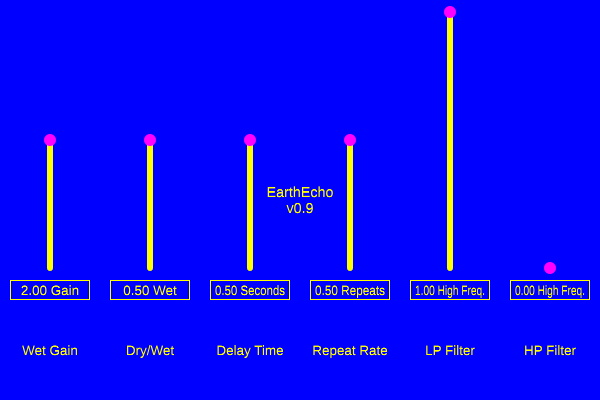
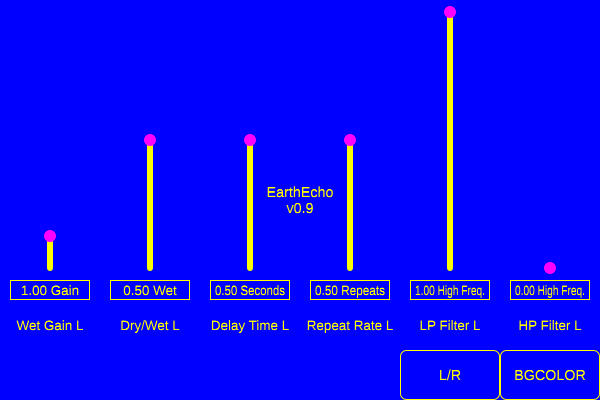
Changeable Background Color and Unique Parameters for L or R Channel
1. Modified README.md

2. Modified Source/PluginEditor.cpp and Source/PluginEditor.h
 a. Added Text Button to Change Background Color
 b. Added Text Button to Change Displaying Parameters for L or R Channel
 c. Made Text Boxes of Sliders Editable
 d. Preserved Syntax

3. Modified Source/PluginProcessor.cpp and Source/PluginProcessor.h
 a. Added Parameters for Each Channel

4. Updated resources/images/earthecho_gui.png

diff --git a/Source/PluginEditor.cpp b/Source/PluginEditor.cpp
@@ -27,21 +27,20 @@ extern _earthEchoSliderParameters earthEchoSliderParameters[];
 
 //==============================================================================
 EarthEchoAudioProcessorEditor::EarthEchoAudioProcessorEditor (EarthEchoAudioProcessor& p)
-    : AudioProcessorEditor (&p), audioProcessor (p), processorParameters (audioProcessor.getParameters()), arraySlider ((unsigned int) audioProcessor.getParameters().size()), arrayLabel ((unsigned int) audioProcessor.getParameters().size())
+    : AudioProcessorEditor (&p), audioProcessor (p), processorParameters (audioProcessor.getParameters()), numSingleChannelParameters ((unsigned int) (audioProcessor.getParameters().size() / audioProcessor.getTotalNumInputChannels())), arraySlider ((unsigned int) audioProcessor.getParameters().size()), arrayLabel ((unsigned int) audioProcessor.getParameters().size()), bgColour (juce::Colours::blue), stateBgColour (0), stateChannel (0)
 {
     // Set the size of this GUI before the end of this constructor.
     setSize (600, 400);
     //juce::Logger::getCurrentLogger()->writeToLog (String (arraySlider.size()));
     for (unsigned int i = 0; i < arraySlider.size(); i++)
     {
-        addAndMakeVisible (&arraySlider[i]);
         arraySlider[i].setSliderStyle (juce::Slider::LinearVertical);
         arraySlider[i].setTextBoxStyle (juce::Slider::TextBoxBelow, true, 80, 20);
         arraySlider[i].setTextValueSuffix (processorParameters[i]->getLabel());
         arraySlider[i].setRange (earthEchoSliderParameters[i].range.start, earthEchoSliderParameters[i].range.end * earthEchoSliderParameters[i].expander);
         arraySlider[i].setValue (processorParameters[i]->getValue() * earthEchoSliderParameters[i].expander);
-        arraySlider[i].setNumDecimalPlacesToDisplay(2);
-        arraySlider[i].addListener (this);
+        arraySlider[i].setNumDecimalPlacesToDisplay (2);
+        arraySlider[i].setTextBoxIsEditable (true);
         arraySlider[i].setColour (juce::Slider::backgroundColourId, juce::Colour (0x00000000));
         arraySlider[i].setColour (juce::Slider::thumbColourId, juce::Colours::magenta);
         arraySlider[i].setColour (juce::Slider::trackColourId, juce::Colours::yellow);
@@ -49,15 +48,33 @@ EarthEchoAudioProcessorEditor::EarthEchoAudioProcessorEditor (EarthEchoAudioProc
         arraySlider[i].setColour (juce::Slider::textBoxBackgroundColourId, juce::Colour (0x00000000));
         arraySlider[i].setColour (juce::Slider::textBoxHighlightColourId, juce::Colours::yellow);
         arraySlider[i].setColour (juce::Slider::textBoxOutlineColourId, juce::Colours::yellow);
+        arraySlider[i].addListener (this);
+        addChildComponent (&arraySlider[i]);
 
-        addAndMakeVisible (&arrayLabel[i]);
         arrayLabel[i].setJustificationType (juce::Justification::centred);
-        arrayLabel[i].setText (processorParameters[i]->getName(12), juce::dontSendNotification);
+        arrayLabel[i].setText (processorParameters[i]->getName (20), juce::dontSendNotification);
         arrayLabel[i].setColour (juce::Label::backgroundColourId, juce::Colour (0x00000000));
         arrayLabel[i].setColour (juce::Label::textColourId, juce::Colours::yellow);
         arrayLabel[i].setColour (juce::Label::outlineColourId, juce::Colour (0x00000000));
+        addChildComponent (&arrayLabel[i]);
     }
-    audioProcessor.addListener(this);
+    buttonChangeBgColour.setButtonText ("BGCOLOR");
+    buttonChangeBgColour.setColour (juce::TextButton::buttonColourId, juce::Colour (0x00000000));
+    buttonChangeBgColour.setColour (juce::TextButton::buttonOnColourId, juce::Colours::white);
+    buttonChangeBgColour.setColour (juce::TextButton::textColourOffId, juce::Colours::yellow);
+    buttonChangeBgColour.setColour (juce::TextButton::textColourOnId, juce::Colours::magenta);
+    buttonChangeBgColour.setColour (juce::ComboBox::outlineColourId, juce::Colours::yellow);
+    buttonChangeBgColour.addListener (this);
+    addAndMakeVisible (&buttonChangeBgColour);
+    buttonChangeChannel.setButtonText ("L/R");
+    buttonChangeChannel.setColour (juce::TextButton::buttonColourId, juce::Colour (0x00000000));
+    buttonChangeChannel.setColour (juce::TextButton::buttonOnColourId, juce::Colours::white);
+    buttonChangeChannel.setColour (juce::TextButton::textColourOffId, juce::Colours::yellow);
+    buttonChangeChannel.setColour (juce::TextButton::textColourOnId, juce::Colours::magenta);
+    buttonChangeChannel.setColour (juce::ComboBox::outlineColourId, juce::Colours::yellow);
+    buttonChangeChannel.addListener (this);
+    addAndMakeVisible (&buttonChangeChannel);
+    audioProcessor.addListener (this);
 }
 
 EarthEchoAudioProcessorEditor::~EarthEchoAudioProcessorEditor()
@@ -65,14 +82,14 @@ EarthEchoAudioProcessorEditor::~EarthEchoAudioProcessorEditor()
     // audioProcessor is the reference of EarthEchoAudioProcessor that is alive even after destructing this class.
     // If you don't remove a listener. The registration of the listener in EarthEchoAudioProcessor will be left.
     // Caution that the left listener causes a segmentation fault.
-    audioProcessor.removeListener(this);
+    audioProcessor.removeListener (this);
 }
 
 //==============================================================================
 void EarthEchoAudioProcessorEditor::paint (juce::Graphics& g)
 {
     // GUI Customizing
-    g.fillAll (juce::Colours::blue);
+    g.fillAll (bgColour);
 
     // Unique Settings on Background of GUI
     // Set Text Colour
@@ -90,14 +107,39 @@ void EarthEchoAudioProcessorEditor::resized()
     //juce::Logger::getCurrentLogger()->writeToLog (String (getLocalBounds().getHeight()));
     auto leftCornerX = (int) getLocalBounds().getX();
     auto leftCornerY = (int) getLocalBounds().getY();
-    auto sliderWidth = (int) ((float) getLocalBounds().getWidth() / (float) arraySlider.size());
-    auto sliderHeight = (int) (3.0f * ((float) getLocalBounds().getHeight() / 4.0f));
-    auto labelHeight =  (int) getLocalBounds().getHeight() - sliderHeight;
+    auto editorWidth = (int) getLocalBounds().getWidth();
+    auto editorHeight = (int) getLocalBounds().getHeight();
+    auto sliderWidth = (int) ((float) editorWidth / (float) numSingleChannelParameters);
+    auto sliderHeight = (int) (3.0f * ((float) editorHeight / 4.0f));
+    auto labelButtonHeight =  (int) ((float) (editorHeight - sliderHeight) / 2.0f);
     for (unsigned int i = 0; i < arraySlider.size(); i++)
     {
-        arraySlider[i].setBounds (leftCornerX + (sliderWidth * (int) i), leftCornerY, sliderWidth, sliderHeight);
-        arrayLabel[i].setBounds (leftCornerX + (sliderWidth * (int) i), leftCornerY + sliderHeight, sliderWidth, labelHeight);
+        arraySlider[i].setBounds (leftCornerX + (sliderWidth * (int) (i % numSingleChannelParameters)), leftCornerY, sliderWidth, sliderHeight);
+        arrayLabel[i].setBounds (leftCornerX + (sliderWidth * (int) (i % numSingleChannelParameters)), leftCornerY + sliderHeight, sliderWidth, labelButtonHeight);
+        if (i < numSingleChannelParameters)
+        {
+            arraySlider[i].setVisible (true);
+            arrayLabel[i].setVisible (true);
+        }
+        else
+        {
+            arraySlider[i].setVisible (false);
+            arrayLabel[i].setVisible (false);
+        }
     }
+    buttonChangeBgColour.setBounds (leftCornerX + (sliderWidth * (int) (numSingleChannelParameters - 1)), leftCornerY + sliderHeight + labelButtonHeight, sliderWidth, labelButtonHeight);
+    buttonChangeChannel.setBounds (leftCornerX + (sliderWidth * (int) (numSingleChannelParameters - 2)), leftCornerY + sliderHeight + labelButtonHeight, sliderWidth, labelButtonHeight);
+}
+
+void EarthEchoAudioProcessorEditor::audioProcessorParameterChanged (AudioProcessor *processorParameterChanged, int parameterIndex, float newValue)
+{
+    //juce::Logger::getCurrentLogger()->writeToLog (String ("EarthEchoAudioProcessorEditor::audioProcessorParameterChanged"));
+    arraySlider[(unsigned int) parameterIndex].setValue (newValue * earthEchoSliderParameters[(unsigned int) parameterIndex].expander);
+}
+
+void EarthEchoAudioProcessorEditor::audioProcessorChanged (AudioProcessor *processorChanged, const ChangeDetails &details)
+{
+    //juce::Logger::getCurrentLogger()->writeToLog (String ("EarthEchoAudioProcessorEditor::audioProcessorChanged"));
 }
 
 void EarthEchoAudioProcessorEditor::sliderValueChanged (juce::Slider* slider)
@@ -112,13 +154,49 @@ void EarthEchoAudioProcessorEditor::sliderValueChanged (juce::Slider* slider)
     }
 }
 
-void EarthEchoAudioProcessorEditor::audioProcessorParameterChanged (AudioProcessor *processorParameterChanged, int parameterIndex, float newValue)
+void EarthEchoAudioProcessorEditor::buttonClicked (juce::Button* button)
 {
-    //juce::Logger::getCurrentLogger()->writeToLog (String ("EarthEchoAudioProcessorEditor::audioProcessorParameterChanged"));
-    arraySlider[(unsigned int) parameterIndex].setValue (newValue * earthEchoSliderParameters[(unsigned int) parameterIndex].expander);
-}
-
-void EarthEchoAudioProcessorEditor::audioProcessorChanged (AudioProcessor *processorChanged, const ChangeDetails &details)
-{
-    //juce::Logger::getCurrentLogger()->writeToLog (String ("EarthEchoAudioProcessorEditor::audioProcessorChanged"));
+    if (button == &buttonChangeBgColour)
+    {
+        if (stateBgColour == 0)
+        {
+            bgColour = juce::Colours::black;
+            stateBgColour = 1;
+        }
+        else if (stateBgColour == 1)
+        {
+            bgColour = juce::Colours::coral;
+            stateBgColour = 2;
+        }
+        else if (stateBgColour == 2)
+        {
+            bgColour = juce::Colours::blue;
+            stateBgColour = 0;
+        }
+        repaint();
+    }
+    else if (button == &buttonChangeChannel)
+    {
+        if (stateChannel == 0)
+        {
+            stateChannel = 1;
+        }
+        else if (stateChannel == 1)
+        {
+            stateChannel = 0;
+        }
+        for (unsigned int i = 0; i < arraySlider.size(); i++)
+        {
+            if (i < numSingleChannelParameters)
+            {
+                arraySlider[i].setVisible ((bool) stateChannel ^ 1);
+                arrayLabel[i].setVisible ((bool) stateChannel ^ 1);
+            }
+            else
+            {
+                arraySlider[i].setVisible ((bool) stateChannel);
+                arrayLabel[i].setVisible ((bool) stateChannel);
+            }
+        }
+    }
 }

diff --git a/Source/PluginProcessor.cpp b/Source/PluginProcessor.cpp
@@ -25,12 +25,18 @@
 
 _earthEchoSliderParameters earthEchoSliderParameters[EARTHECHO_NUMBER_PARAMETERS] =
 {
-    {"wetgain", "Wet Gain", {0.0f, 1.0f, 0.00125f}, 0.125f, " Gain", 8.0f},
-    {"drywet", "Dry/Wet", {0.0f, 1.0f, 0.01f}, 0.5f, " Wet", 1.0f},
-    {"delay", "Delay Time", {0.0f, 1.0f, 0.01f}, 0.5f, " Seconds", 1.0f},
-    {"repeat", "Repeat Rate", {0.0f, 1.0f, 0.01f}, 0.5f, " Repeats", 1.0f},
-    {"lowpass", "LP Filter", {0.0f, 1.0f, 0.01f}, 1.0f, " High Freq.", 1.0f},
-    {"highpass", "HP Filter", {0.0f, 1.0f, 0.01f}, 0.0f, " High Freq.", 1.0f}
+    {"wetgain_l", "Wet Gain L", {0.0f, 1.0f, 0.00125f}, 0.125f, " Gain", 8.0f},
+    {"drywet_l", "Dry/Wet L", {0.0f, 1.0f, 0.01f}, 0.5f, " Wet", 1.0f},
+    {"delay_l", "Delay Time L", {0.0f, 1.0f, 0.01f}, 0.5f, " Seconds", 1.0f},
+    {"repeat_l", "Repeat Rate L", {0.0f, 1.0f, 0.01f}, 0.5f, " Repeats", 1.0f},
+    {"lowpass_l", "LP Filter L", {0.0f, 1.0f, 0.01f}, 1.0f, " High Freq.", 1.0f},
+    {"highpass_l", "HP Filter L", {0.0f, 1.0f, 0.01f}, 0.0f, " High Freq.", 1.0f},
+    {"wetgain_r", "Wet Gain R", {0.0f, 1.0f, 0.00125f}, 0.125f, " Gain", 8.0f},
+    {"drywet_r", "Dry/Wet R", {0.0f, 1.0f, 0.01f}, 0.5f, " Wet", 1.0f},
+    {"delay_r", "Delay Time R", {0.0f, 1.0f, 0.01f}, 0.5f, " Seconds", 1.0f},
+    {"repeat_r", "Repeat Rate R", {0.0f, 1.0f, 0.01f}, 0.5f, " Repeats", 1.0f},
+    {"lowpass_r", "LP Filter R", {0.0f, 1.0f, 0.01f}, 1.0f, " High Freq.", 1.0f},
+    {"highpass_r", "HP Filter R", {0.0f, 1.0f, 0.01f}, 0.0f, " High Freq.", 1.0f}
 };
 
 //==============================================================================
@@ -126,12 +132,15 @@ void EarthEchoAudioProcessor::prepareToPlay (double sampleRate, int samplesPerBl
     // Initialization before Playback
     //juce::Logger::getCurrentLogger()->writeToLog (String (sampleRate, 5));
     //juce::Logger::getCurrentLogger()->writeToLog (String ((int) sampleRate));
-    for (unsigned int i = 0; i < 4; i++)
-        arrayMovingAverage.push_back (0);
-    for (unsigned int i = 0; i < 2; i++)
-        arrayPlayBackSampleCount.push_back (0);
     playBackSampleRate = (unsigned int) sampleRate;
-    for (unsigned int i = 0; i < 2; i++)
+    // Moving Average for Low-pass Filter and High-pass Filter for Each Channel
+    for (unsigned int i = 0; i < (unsigned int) getTotalNumInputChannels() * 2; i++)
+        arrayMovingAverage.push_back (0);
+    // Set Zero to Counter of Samples for Each Channel
+    for (unsigned int i = 0; i < (unsigned int) getTotalNumInputChannels(); i++)
+        arrayPlayBackSampleCount.push_back (0);
+    // Make Memory Space to Store Delay Sound for Each Channel
+    for (unsigned int i = 0; i < (unsigned int) getTotalNumInputChannels(); i++)
     {
         std::vector<float> channel (playBackSampleRate, 0.0f);
         arrayDelay.push_back (channel);
@@ -181,7 +190,7 @@ void EarthEchoAudioProcessor::processBlock (juce::AudioBuffer<float>& buffer, ju
         {
             // Input
             auto currentData = inputData[j];
-            auto delayIndex = (unsigned int) ((float) (playBackSampleRate - 1) * arrayParameter[EarthEchoDelay]->get());
+            auto delayIndex = (unsigned int) ((float) (playBackSampleRate - 1) * arrayParameter[EARTHECHO_NUMBER_PARAMETERS_SINGLECHANNEL * i + EarthEchoDelay]->get());
             // Mix
             float mixData;
             if (delayIndex == 0)
@@ -190,19 +199,19 @@ void EarthEchoAudioProcessor::processBlock (juce::AudioBuffer<float>& buffer, ju
             }
             else
             {
-                mixData = ((arrayDelay[i][(((unsigned int) arrayPlayBackSampleCount[i] + playBackSampleRate) - delayIndex) % (playBackSampleRate)]) * arrayParameter[EarthEchoRepeat]->get()) + (currentData * (1.0f - arrayParameter[EarthEchoRepeat]->get()));
+                mixData = ((arrayDelay[i][(((unsigned int) arrayPlayBackSampleCount[i] + playBackSampleRate) - delayIndex) % (playBackSampleRate)]) * arrayParameter[EARTHECHO_NUMBER_PARAMETERS_SINGLECHANNEL * i + EarthEchoRepeat]->get()) + (currentData * (1.0f - arrayParameter[EARTHECHO_NUMBER_PARAMETERS_SINGLECHANNEL * i + EarthEchoRepeat]->get()));
             }
             arrayDelay[i][arrayPlayBackSampleCount[i]] = mixData;
-            // Lowpass Filter
-            arrayMovingAverage[i * 2] -= arrayMovingAverage[i * 2] * arrayParameter[EarthEchoLowpassFilter]->get();
-            arrayMovingAverage[i * 2] += mixData * arrayParameter[EarthEchoLowpassFilter]->get();
+            // Low-pass Filter
+            arrayMovingAverage[i * 2] -= arrayMovingAverage[i * 2] * arrayParameter[EARTHECHO_NUMBER_PARAMETERS_SINGLECHANNEL * i + EarthEchoLowpassFilter]->get();
+            arrayMovingAverage[i * 2] += mixData * arrayParameter[EARTHECHO_NUMBER_PARAMETERS_SINGLECHANNEL * i + EarthEchoLowpassFilter]->get();
             mixData = arrayMovingAverage[i * 2];
-            // Highpass Filter
-            arrayMovingAverage[i * 2 + 1] -= arrayMovingAverage[i * 2 + 1] * arrayParameter[EarthEchoHighpassFilter]->get();
-            arrayMovingAverage[i * 2 + 1] += mixData * arrayParameter[EarthEchoHighpassFilter]->get();
+            // High-pass Filter
+            arrayMovingAverage[i * 2 + 1] -= arrayMovingAverage[i * 2 + 1] * arrayParameter[EARTHECHO_NUMBER_PARAMETERS_SINGLECHANNEL * i + EarthEchoHighpassFilter]->get();
+            arrayMovingAverage[i * 2 + 1] += mixData * arrayParameter[EARTHECHO_NUMBER_PARAMETERS_SINGLECHANNEL * i + EarthEchoHighpassFilter]->get();
             mixData = mixData - arrayMovingAverage[i * 2 + 1];
             // Output
-            outputData[j] = ((mixData * arrayParameter[EarthEchoDryWet]->get() * arrayParameter[EarthEchoVolume]->get() * earthEchoSliderParameters[EarthEchoVolume].expander) + (currentData * (1.0f - arrayParameter[EarthEchoDryWet]->get())));
+            outputData[j] = ((mixData * arrayParameter[EARTHECHO_NUMBER_PARAMETERS_SINGLECHANNEL * i + EarthEchoDryWet]->get() * arrayParameter[EARTHECHO_NUMBER_PARAMETERS_SINGLECHANNEL * i + EarthEchoVolume]->get() * earthEchoSliderParameters[EarthEchoVolume].expander) + (currentData * (1.0f - arrayParameter[EARTHECHO_NUMBER_PARAMETERS_SINGLECHANNEL * i + EarthEchoDryWet]->get())));
             if (++arrayPlayBackSampleCount[i] >= playBackSampleRate)
             {
                 arrayPlayBackSampleCount[i] = 0;

diff --git a/Source/PluginEditor.h b/Source/PluginEditor.h
@@ -29,8 +29,9 @@
 /**
 */
 class EarthEchoAudioProcessorEditor  : public juce::AudioProcessorEditor,
+                                       public juce::AudioProcessorListener,
                                        public juce::Slider::Listener,
-                                       public juce::AudioProcessorListener
+                                       public juce::Button::Listener
 {
 public:
     EarthEchoAudioProcessorEditor (EarthEchoAudioProcessor&);
@@ -39,10 +40,11 @@ public:
     //==============================================================================
     void paint (juce::Graphics&) override;
     void resized() override;
-    void sliderValueChanged (juce::Slider* slider) override;
     // Needed Define All Pure Virtual Functions (Decleared with "=0")
     void audioProcessorParameterChanged (AudioProcessor *processor, int parameterIndex, float newValue) override;
     void audioProcessorChanged (AudioProcessor *processor, const ChangeDetails &details) override;
+    void sliderValueChanged (juce::Slider* slider) override;
+    void buttonClicked (juce::Button* button) override;
 
 private:
     // This reference is provided as a quick way for your editor to
@@ -51,8 +53,14 @@ private:
 
     //==============================================================================
     juce::Array<AudioProcessorParameter*> processorParameters;
+    unsigned int numSingleChannelParameters;
     std::vector<juce::Slider> arraySlider;
     std::vector<juce::Label> arrayLabel;
+    juce::Colour bgColour;
+    juce::TextButton buttonChangeBgColour;
+    juce::TextButton buttonChangeChannel;
+    unsigned int stateBgColour;
+    unsigned int stateChannel;
 
     //==============================================================================
     JUCE_DECLARE_NON_COPYABLE_WITH_LEAK_DETECTOR (EarthEchoAudioProcessorEditor)

diff --git a/Source/PluginProcessor.h b/Source/PluginProcessor.h
@@ -24,7 +24,8 @@
 
 #include <JuceHeader.h>
 
-#define EARTHECHO_NUMBER_PARAMETERS 6
+#define EARTHECHO_NUMBER_PARAMETERS 12
+#define EARTHECHO_NUMBER_PARAMETERS_SINGLECHANNEL 6
 #define EARTHECHO_VERSION ((String) "v0.9")
 
 typedef struct EarthEcho_earthEchoSliderParameters

diff --git a/README.md b/README.md
@@ -1,24 +1,28 @@
 # EarthEcho
 
-![Graphical User Interface of EarthEcho](/resources/images/earthecho_gui.png "EarthEcho_GUI")
+![Graphical User Interface of EarthEcho in Development](/resources/images/earthecho_gui.png "EarthEcho_GUI")
 
 ## What's EarthEcho?
 
 * EarthEcho is an audio plugin made with [JUCE framework](https://github.com/juce-framework/JUCE).
 
-* EarthEcho makes an echo effect on each channel (e.g., left, right, etc.) with various sliders to emulate nature.
+* EarthEcho makes an echo effect on each channel (left = L or right = R) with various sliders to emulate nature.
 
 * EarthEcho has a retro computing style graphic user interface.
 
 ## Usage
 
-* There are 6 sliders.
-  1. 'Wet Gain': Changes the volume of the wet (effected sound).
-  2. 'Dry/Wet': Changes the mix rate of the dry (non-effected sound) and the wet.
-  3. 'Delay Time': Changes the delay time up to 1 second.
-  4. 'Repeat Rate': Changes the repeating time of the echo (feedbacking sound).
-  5. 'LP Filter': Changes frequency of the low-pass filter effected on the echo.
-  6. 'HP Filter': Changes frequency of the high-pass filter effected on the echo.
+* There are 6 sliders for each channel (L or R).
+  * 'Wet Gain': Changes the volume of the wet (effected sound).
+  * 'Dry/Wet': Changes the mix rate of the dry (non-effected sound) and the wet.
+  * 'Delay Time': Changes the delay time up to 1 second.
+  * 'Repeat Rate': Changes the repeating time of the echo (feedbacking sound).
+  * 'LP Filter': Changes frequency of the low-pass filter effected on the echo.
+  * 'HP Filter': Changes frequency of the high-pass filter effected on the echo.
+
+* There are 2 buttons.
+  * 'BGCOLOR': Changes the background color of the GUI.
+  * 'L/R': Changes displaying parameters for each channel.
 
 ## Installation
 
